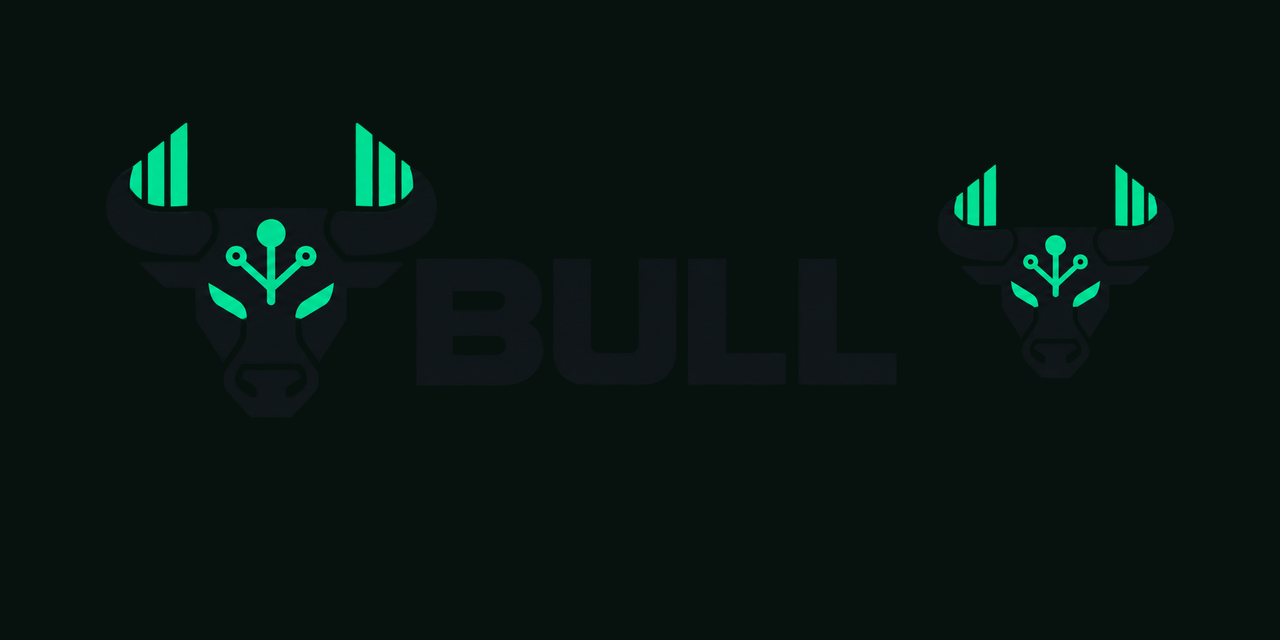
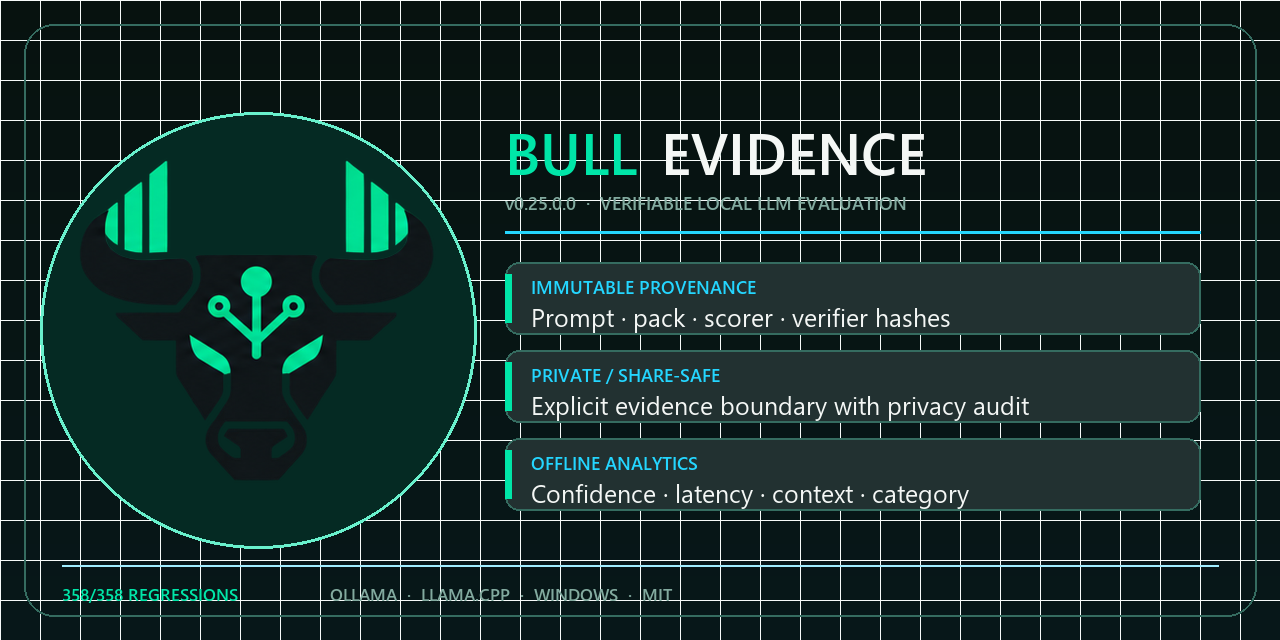
Refresh BULL Evidence social preview

diff --git a/Tools/build_brand_assets.py b/Tools/build_brand_assets.py
@@ -7,7 +7,7 @@ import hashlib
 import json
 from pathlib import Path
 
-from PIL import Image, ImageOps
+from PIL import Image, ImageDraw, ImageFont, ImageOps
 
 
 ROOT = Path(__file__).resolve().parents[1]
@@ -28,6 +28,17 @@ def contain(image: Image.Image, size: tuple[int, int], padding: int = 0) -> Imag
     canvas = Image.new("RGBA", size, (0, 0, 0, 0))
     canvas.alpha_composite(fitted, ((size[0] - fitted.width) // 2, (size[1] - fitted.height) // 2))
     return canvas
+
+
+def ui_font(size: int, *, bold: bool = False) -> ImageFont.FreeTypeFont | ImageFont.ImageFont:
+    names = ("seguisb.ttf", "segoeuib.ttf") if bold else ("segoeui.ttf",)
+    candidates = [Path("C:/Windows/Fonts") / name for name in names]
+    candidates += [Path("/usr/share/fonts/truetype/dejavu/DejaVuSans-Bold.ttf" if bold else
+                        "/usr/share/fonts/truetype/dejavu/DejaVuSans.ttf")]
+    for candidate in candidates:
+        if candidate.is_file():
+            return ImageFont.truetype(str(candidate), size=size)
+    return ImageFont.load_default()
 
 
 def svg_wrapper(png_name: str, width: int, height: int, *, label: str) -> str:
@@ -106,8 +117,50 @@ def main() -> None:
     )
 
     social = Image.new("RGBA", (1280, 640), "#07120F")
-    social_logo = contain(logo, (1180, 420), padding=24)
-    social.alpha_composite(social_logo, (50, 60))
+    draw = ImageDraw.Draw(social, "RGBA")
+    for y in range(640):
+        blend = y / 639
+        draw.line((0, y, 1280, y), fill=(7, 18 + round(5 * blend), 15 + round(10 * blend), 255))
+    for x in range(0, 1281, 40):
+        draw.line((x, 0, x, 640), fill=(88, 150, 135, 13))
+    for y in range(0, 641, 40):
+        draw.line((0, y, 1280, y), fill=(88, 150, 135, 13))
+    draw.rounded_rectangle((24, 24, 1256, 616), radius=30, outline=(31, 92, 79, 230), width=2)
+    draw.ellipse((40, 112, 476, 548), fill=(5, 42, 35, 255),
+                 outline=(0, 230, 168, 150), width=3)
+    social_mark = contain(mark_source, (430, 430), padding=22)
+    social.alpha_composite(social_mark, (42, 105))
+
+    title_font = ui_font(58, bold=True)
+    label_font = ui_font(18, bold=True)
+    body_font = ui_font(25)
+    stat_font = ui_font(17, bold=True)
+    x = 505
+    draw.text((x, 112), "BULL", font=title_font, fill="#00E6A8")
+    bull_width = draw.textbbox((0, 0), "BULL", font=title_font)[2]
+    draw.text((x + bull_width + 24, 112), "EVIDENCE", font=title_font, fill="#F4F7F5")
+    draw.text((x, 190), "v0.25.0.0  ·  VERIFIABLE LOCAL LLM EVALUATION",
+              font=label_font, fill="#82AA9F")
+    draw.line((x, 232, 1200, 232), fill="#24D6FF", width=3)
+
+    cards = (
+        ("IMMUTABLE PROVENANCE", "Prompt · pack · scorer · verifier hashes"),
+        ("PRIVATE / SHARE-SAFE", "Explicit evidence boundary with privacy audit"),
+        ("OFFLINE ANALYTICS", "Confidence · latency · context · category"),
+    )
+    card_y = 262
+    for title, detail in cards:
+        draw.rounded_rectangle((x, card_y, 1200, card_y + 72), radius=14,
+                               fill=(15, 31, 32, 235), outline=(31, 92, 79, 230), width=2)
+        draw.rectangle((x, card_y + 12, x + 6, card_y + 60), fill="#00E6A8")
+        draw.text((x + 26, card_y + 12), title, font=label_font, fill="#24D6FF")
+        draw.text((x + 26, card_y + 38), detail, font=body_font, fill="#F4F7F5")
+        card_y += 88
+
+    draw.line((62, 565, 1218, 565), fill=(36, 214, 255, 110), width=2)
+    draw.text((62, 582), "358/358 REGRESSIONS", font=stat_font, fill="#00E6A8")
+    draw.text((330, 582), "OLLAMA  ·  LLAMA.CPP  ·  WINDOWS  ·  MIT",
+              font=stat_font, fill="#82AA9F")
     social.save(BRAND / "github-social-preview.png", optimize=True)
 
     lock = {
